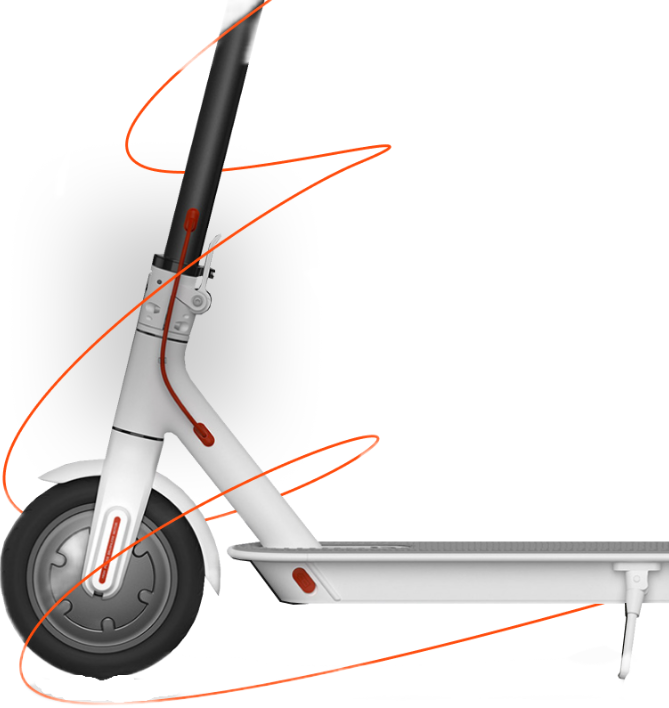
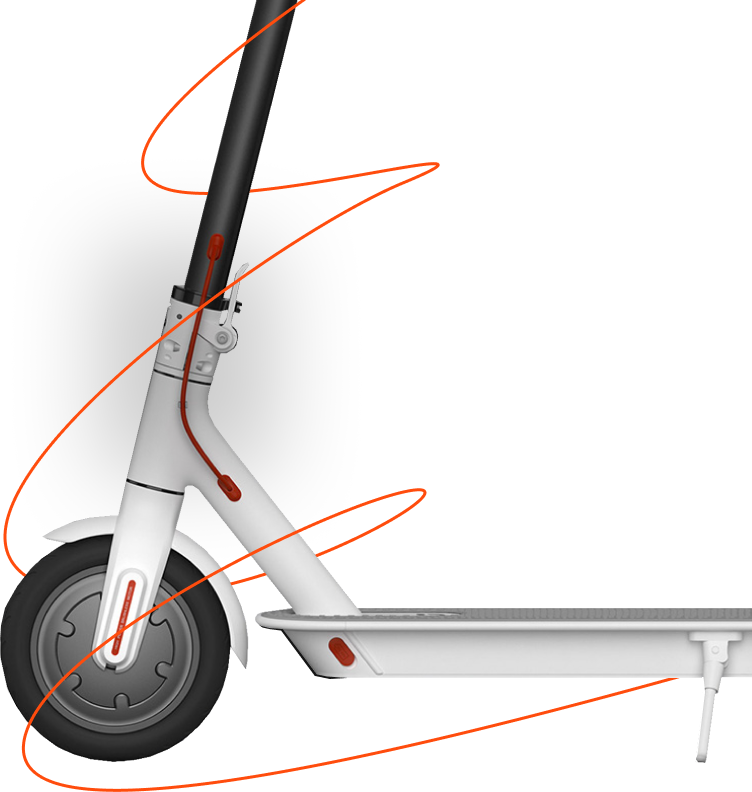
3 commit

diff --git a/src/blocks/banner/banner.css b/src/blocks/banner/banner.css
@@ -1,40 +1,55 @@
 .banner {
-  display: flex;
-  justify-content: space-between;
+  display: grid;
+  grid-template-columns: repeat(2, 1fr);
+  grid-template-rows: 1fr;
+  grid-column-gap: 0px;
+  grid-row-gap: 0px;
+  margin-bottom: 15rem;
+}
+
+/* fix the samokat */
+.banner__bike {
+  position: absolute;
+  top: 0;
+  right: 0;
+  z-index: -1;
+  flex-shrink: 0;
+}
+
+.banner__bike-image {
+  width: 49vw;
 }
 
 .banner__content {
+  grid-area: 1/1/2/3;
   display: flex;
   flex-direction: column;
 }
+
 .banner__content-text {
-}
-.banner__content-text-info {
-  color: #ff4c0d;
-  margin-top: 1rem;
-  white-space: pre-wrap;
-  font-size: 2vw;
+  display: flex;
+  flex-direction: column;
 }
 
 .banner__content-text-header {
+  white-space: pre-wrap;
+  align-self: stretch;
   color: white;
-  font-weight: 400;
-  font-size: 6vw;
-  font-weight: bold;
+  font-weight: 600;
+  font-size: 110px;
 }
-.mode-button {
-  background-color: white;
-  border: 0;
-  border-radius: 40px;
-  padding: 1rem 2rem;
-  cursor: pointer;
-  font-weight: bold;
-  font-size: large;
+
+.banner__content-text-info {
+  color: #ff4c0d;
+  margin-top: 1rem;
+  font-weight: 500;
+  white-space: pre-wrap;
+  font-size: 40px;
 }
 
 .banner__content-button {
   display: grid;
-  margin-top: 2rem;
+  margin-top: 5rem;
   border: solid 5px white;
   border-radius: 50px;
   width: 20rem;
@@ -44,7 +59,7 @@
   grid-area: 1 / 1;
   z-index: -1;
   border-radius: 49px;
-  border: solid 2rem white;
+  /* border: solid 1rem white; */
   background-color: white;
   height: 100%;
   width: 50%;
@@ -57,27 +72,15 @@
   width: 100%;
   display: flex;
   justify-content: space-around;
+  padding: 1.5rem 0;
+  font-size: 18px;
+  font-weight: 700;
 }
 
 .white-text {
-  font-weight: 700;
-  padding: 2rem 3rem;
   color: black;
 }
 
 .black-text {
-  font-weight: 700;
-  padding: 2rem 3rem;
   color: white;
-}
-
-.banner__bike {
-  position: absolute;
-  z-index: -1;
-  top: 0;
-  right: 0;
-}
-
-.banner__bike-image {
-  width: 50vw;
 }

diff --git a/src/blocks/banner/Banner.jsx b/src/blocks/banner/Banner.jsx
@@ -3,7 +3,7 @@ import "./banner.css";
 import bike from "./../../assets/bike.png";
 
 const text = {
-  main: "Стильный электросамокат с мощным аккумулятором",
+  main: "Стильный электросамокат\nс мощным аккумулятором",
   info: "Улучшенная производительность\nдля дальних путешествий.\nРаботает так же просто,\nкак и выглядит.",
 };
 
@@ -16,10 +16,7 @@ export default function Banner() {
             <h1 className='banner__content-text-header'>{text.main}</h1>
             <h2 className='banner__content-text-info'>{text.info}</h2>
           </div>
-          {/* <div className='banner__content-button'>
-            <button className='mode-button'>dark</button>
-          </div> */}
-
+          {/* make animation + darkmode */}
           <div className='banner__content-button'>
             <div className='slider' />
             <div className='button-text'>

diff --git a/src/App.js b/src/App.js
@@ -1,5 +1,5 @@
 import React from "react";
-import { Banner, Navbar } from "./blocks";
+import { Banner, Navbar, Info } from "./blocks";
 
 import "./App.css";
 import "./index.css";
@@ -9,6 +9,7 @@ function App() {
     <div>
       <Navbar />
       <Banner />
+      <Info />
     </div>
   );
 }

diff --git a/src/blocks/navbar/navbar.css b/src/blocks/navbar/navbar.css
@@ -37,10 +37,10 @@
   background-color: white;
   border: 0;
   border-radius: 50px;
-  padding: 1rem 2rem;
+  padding: 1rem 2.5rem;
   cursor: pointer;
-  font-weight: bold;
-  font-size: large;
+  font-weight: 700;
+  font-size: 23px;
 }
 
 .banner__bike {

diff --git a/src/blocks/index.js b/src/blocks/index.js
@@ -1,2 +1,3 @@
 export { default as Navbar } from "./navbar/Navbar.jsx";
 export { default as Banner } from "./banner/Banner.jsx";
+export { default as Info } from "./info/Info.jsx";

diff --git a/src/blocks/info/Info.jsx b/src/blocks/info/Info.jsx
@@ -1,0 +1,5 @@
+import React from "react";
+
+export default function Info() {
+  return <h1>Info</h1>;
+}
